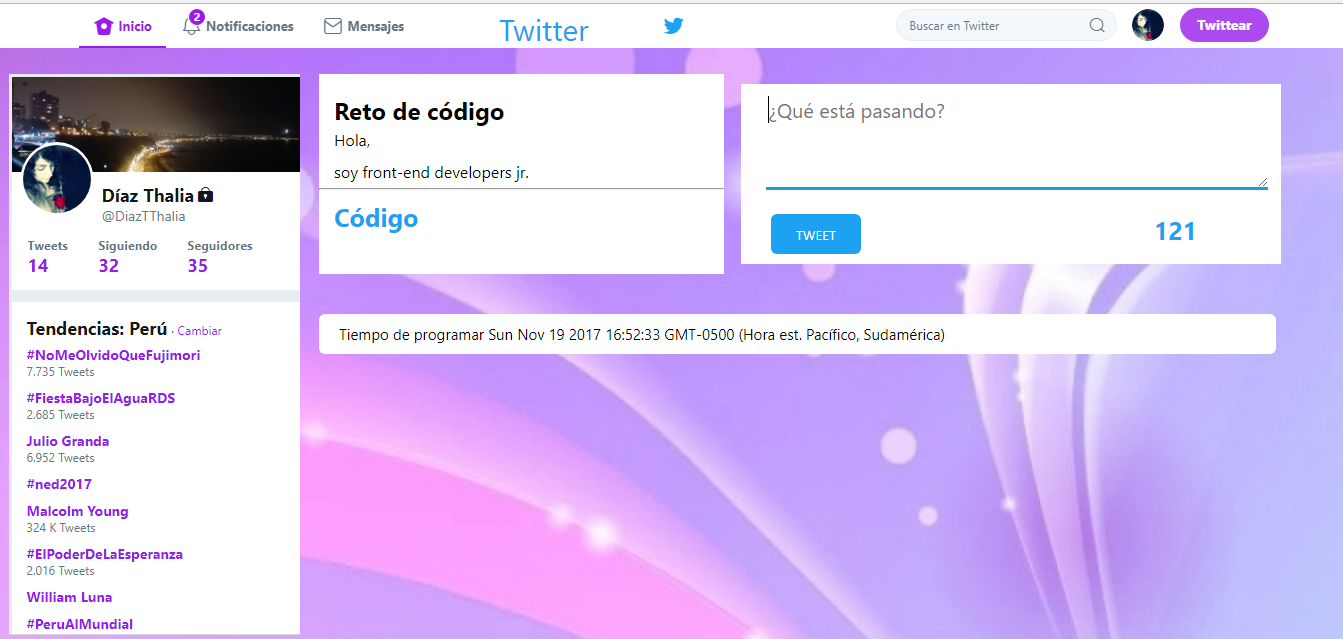
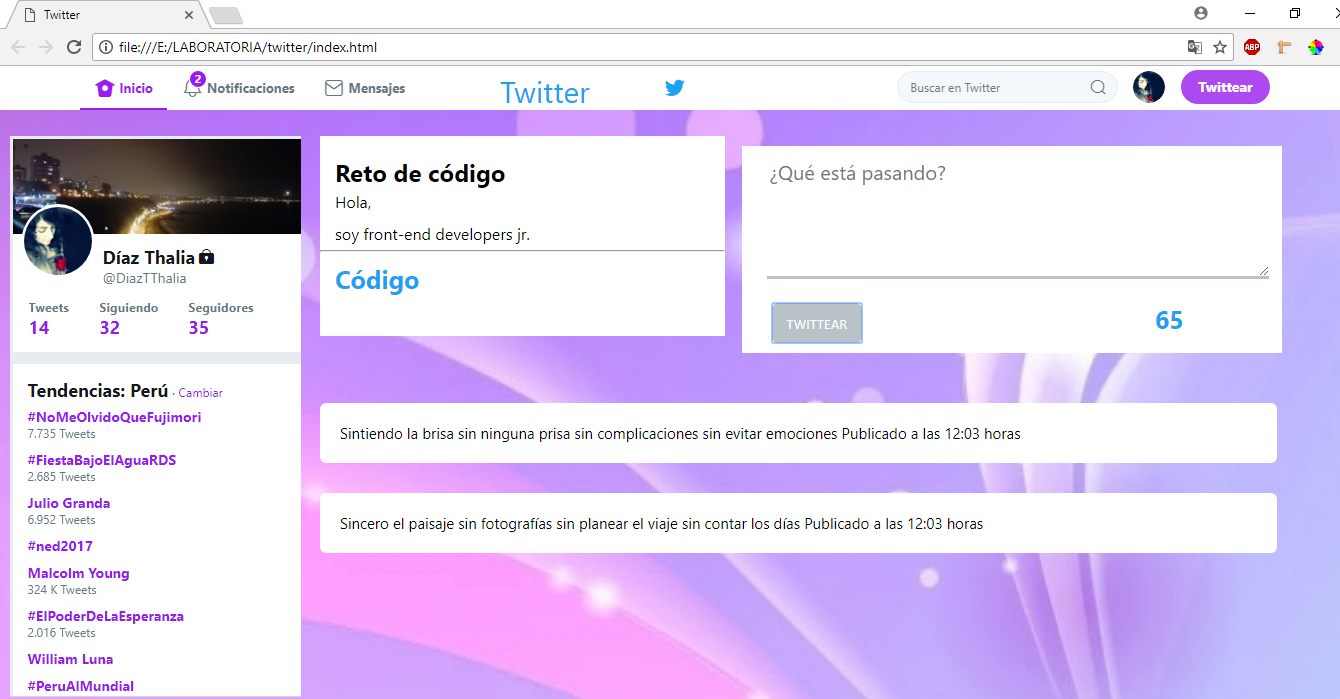
dandole formato a la hora version 0.0.6

diff --git a/js/app.js b/js/app.js
@@ -33,6 +33,11 @@ window.addEventListener('load', function(event) {
       areaText.style.cssText = 'height:auto; padding:0';
       areaText.style.cssText = 'height:' + areaText.scrollHeight + 'px';
     }, 0);
+
+    if (event.keyCode === 13) {
+      // para darle el tamaño del scroll a la altura del textarea
+      mensaje.value= '\n';
+    }
   }
   /* Evento que crea mi una nueva sección donde muestro mi tweet*/ 
   boton.addEventListener('click', function(event) {

diff --git a/css/main.css b/css/main.css
@@ -165,8 +165,8 @@ button{
     border-radius: 6px;
     margin-top: 30px;
     margin-left: 320px;
-    padding-top: 10px;
-    padding-bottom: 10px;
+    padding-top: 20px;
+    padding-bottom: 20px;
     padding-left: 20px;
     padding-right: 20px;
     width: 68%;
